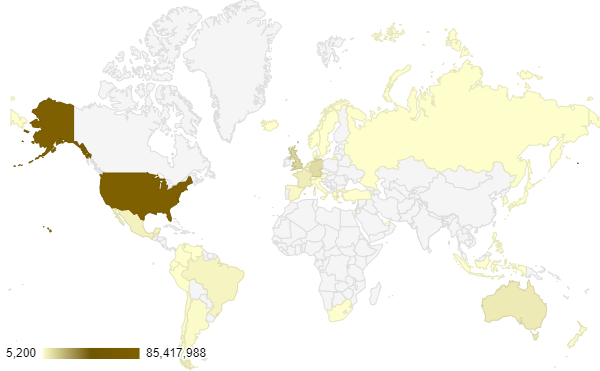
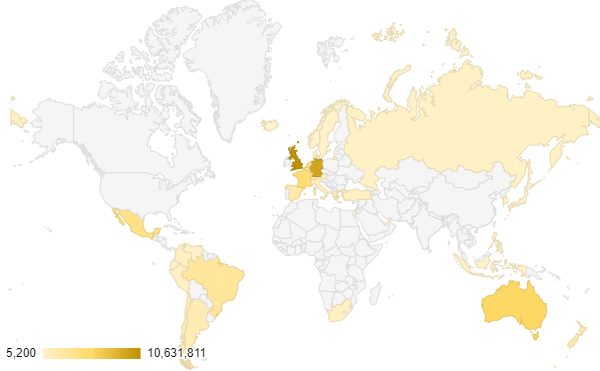
Fixed image

diff --git a/index.html b/index.html
@@ -26,7 +26,7 @@
 		</table>
 
 		<div id="container" style="height: 450px; min-width: 310px; max-width: 800px; margin: 0 auto"></div>
-	  <p class="center">"The Spongebob Squarepants Movie" International Box Office</p>
+	  <p class="center">"The Spongebob Squarepants Movie" International (Outside US) Box Office</p>
 
 		<img class="center" src="WorldGraph.png" width="600" height="371" alt=""/>
 		
@@ -124,7 +124,7 @@
 			},
 
 			title: {
-				text: 'How Well did the Spongebob Movie do Internationally?'
+				text: 'How Well did the Spongebob Movie do Around the World?'
 			},
 
 			subtitle: {
